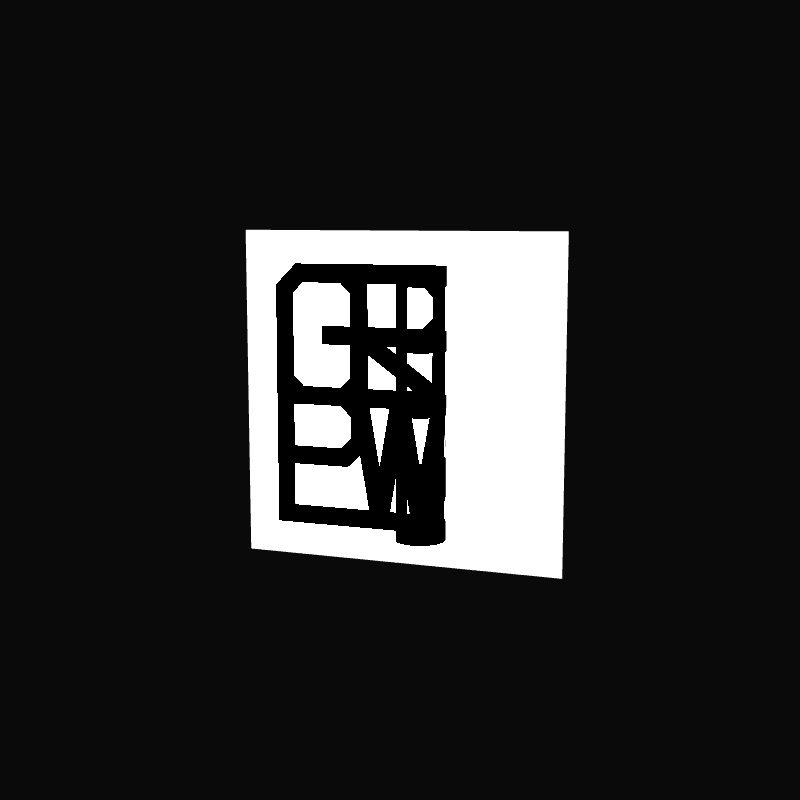
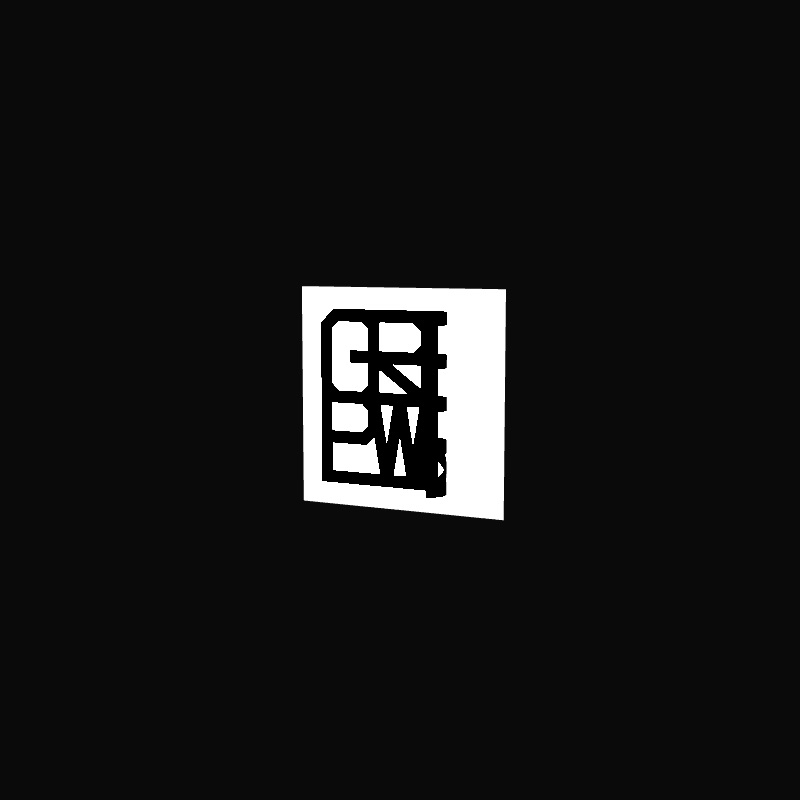
sticker: smaller (0.28 of the width on desktop, 0.55 on a phone); left alone 2 s, the print rolls back flat and the paper turns back

Changed region(s): [[0.2812, 0.2812, 0.7188, 0.7188]]

diff --git a/dist/assets/index.2b77fc91.js b/dist/assets/index.2b77fc91.js
@@ -1,0 +1,28 @@
+import"./modulepreload-polyfill.b7f2da20.js";import{W as Y,C as R,S as z,c as D,G as k,M as L,e as V,f as G,D as g,g as I,h as T,i as W,j as _}from"./vendor.1a2da625.js";const j="M216 60H184.927M216 60V91.0733M216 60H350.122M216 300H184.927M216 300V268.927M216 300V331.073M216 300H300M216 300L258 540M184.927 60H138.073H91.2188L60 91.2188L60.0778 180L60 268.201V300M60 300H91.7993M60 300V420M384 60V93.8779M384 60H350.122M384 60H508.946H540V91.0538V148.655V180M384 300H540M384 300V180M384 300V420M384 300L216 180M384 300H300M384 300L342 540M540 420V435.527V540H384M384 540V420M384 540H363M540 540L384 420M184.927 60L216 91.0733M216 91.0733V180M60 268.201L91.7993 300M91.7993 300H184.927M184.927 300L216 268.927M184.927 300L216 331.073M216 268.927V180M216 331.073L216 388.8L184.8 420H60M384 93.8779L350.122 60M384 93.8779V148.866M540 300V268.946V211.346V180M540 300V331.054V388.623V420M216 180H138.073M216 180H352.866M384 180V148.866M384 180H540M384 180H352.866M60 420V540H216H258M384 420H540M384 420L363 540M352.866 180L384 148.866M300 300L258 540M300 300L342 540M258 540H300H342M342 540H363";function F(){const t=document.createElement("canvas");t.width=t.height=1024;const a=t.getContext("2d"),u=1024*.1,h=(1024-2*u)/516;a.translate(u,u),a.scale(h,h),a.translate(-42,-42),a.lineWidth=36,a.strokeStyle="#000",a.stroke(new Path2D(j));const f=new W(t);return f.anisotropy=4,f}const d=document.getElementById("sticker"),p=new Y({canvas:d,antialias:!0});p.setClearColor(new R(657930),1);const x=new z,i=new D(35,1,.01,100);i.position.z=3;const m=new k;x.add(m);const y=new L(new V(1,1),new G({color:16777215,side:g}));m.add(y);const E=new I({side:g,transparent:!0,uniforms:{map:{value:F()},roll:{value:0},radius:{value:.07}},vertexShader:`
+    uniform float roll;
+    uniform float radius;
+    varying vec2 vUv;
+    void main() {
+      vUv = uv;
+      vec3 p = position;
+      // the unrolled part lies flat; from 'edge' to the right the layer winds up into a spiral
+      float edge = 0.5 - roll * 1.02;
+      if (p.x > edge) {
+        float s = p.x - edge;                                     // length already rolled
+        float r = radius * (1.0 + 0.12 * s / radius / 6.2831853); // grows a little per turn
+        float th = s / r;
+        p.x = edge + r * sin(th);
+        p.z = r * (1.0 - cos(th));
+      }
+      p.z += 0.0015; // printed on top of the paper
+      gl_Position = projectionMatrix * modelViewMatrix * vec4(p, 1.0);
+    }
+  `,fragmentShader:`
+    uniform sampler2D map;
+    varying vec2 vUv;
+    void main() {
+      float a = texture2D(map, vUv).a;
+      if (a < 0.5) discard;
+      gl_FragColor = vec4(0.0, 0.0, 0.0, 1.0);
+    }
+  `});m.add(new L(new V(1,1,256,1),E));function P(){const e=window.innerWidth,t=window.innerHeight;p.setPixelRatio(Math.min(window.devicePixelRatio||1,2)),p.setSize(e,t,!1),i.aspect=e/t;const a=Math.min(e<=768?.55*e:.28*e,.5*t);w=a,i.position.z=t/a/(2*Math.tan(i.fov*Math.PI/360)),i.updateProjectionMatrix()}let v=0,s=0,r=.12,o=-.45,l=0,c=0,w=300;const U=.12,b=-.45,O=2e3;let M=-1e9,n=null;const H=new T,q=(e,t)=>{const a=new _(e/window.innerWidth*2-1,-(t/window.innerHeight)*2+1);return H.setFromCamera(a,i),H.intersectObject(y).length>0},S=e=>Math.min(1,Math.max(0,e));d.addEventListener("pointerdown",e=>{d.setPointerCapture(e.pointerId),n={mode:q(e.clientX,e.clientY)?"roll":"turn",x:e.clientX,y:e.clientY,startX:e.clientX,startRoll:s},l=c=0,M=performance.now()});d.addEventListener("pointermove",e=>{!n||(n.mode==="roll"?s=S(n.startRoll+(n.startX-e.clientX)/w):(c=(e.clientX-n.x)*.004,l=(e.clientY-n.y)*.004,o+=c,r+=l),n.x=e.clientX,n.y=e.clientY,M=performance.now())});const X=()=>{n=null,M=performance.now()};d.addEventListener("pointerup",X);d.addEventListener("pointercancel",X);window.addEventListener("wheel",e=>{e.preventDefault();const t=e.deltaMode===1?e.deltaY*16:e.deltaY;s=S(s+t/(w*2)),M=performance.now()},{passive:!1});function C(e){!n&&e-M>O&&(s+=(0-s)*.04,o+=(b-o)*.04,r+=(U-r)*.04,l=c=0),v+=(s-v)*(n?.mode==="roll"?.5:.15),E.uniforms.roll.value=v,n?.mode!=="turn"&&(o+=c,r+=l,l*=.92,c*=.92),r=Math.max(-.9,Math.min(.9,r)),o=Math.max(-1,Math.min(1,o)),m.rotation.set(r,o,0),p.render(x,i),requestAnimationFrame(C)}window.addEventListener("resize",P);P();requestAnimationFrame(C);

diff --git a/src/sticker/main.ts b/src/sticker/main.ts
@@ -98,7 +98,7 @@ function resize() {
   renderer.setPixelRatio(Math.min(window.devicePixelRatio || 1, 2))
   renderer.setSize(w, h, false)
   camera.aspect = w / h
-  const side = Math.min(w <= 768 ? 0.78 * w : 0.42 * w, 0.75 * h) // paper side, px
+  const side = Math.min(w <= 768 ? 0.55 * w : 0.28 * w, 0.5 * h) // paper side, px
   paperPx = side
   // distance at which a 1-unit plane is `side` px tall on screen
   camera.position.z = h / side / (2 * Math.tan((camera.fov * Math.PI) / 360))
@@ -113,6 +113,11 @@ let rotY = -0.45
 let velX = 0
 let velY = 0
 let paperPx = 300 // paper side on screen, for drag → roll
+
+const REST_X = 0.12
+const REST_Y = -0.45
+const IDLE_MS = 2000 // left alone this long, the print rolls back flat and the paper turns back
+let lastInput = -1e9
 
 type Drag = { mode: 'roll' | 'turn'; x: number; y: number; startX: number; startRoll: number }
 let drag: Drag | null = null
@@ -135,6 +140,7 @@ canvas.addEventListener('pointerdown', (e) => {
     startRoll: rollTarget,
   }
   velX = velY = 0
+  lastInput = performance.now()
 })
 canvas.addEventListener('pointermove', (e) => {
   if (!drag) return
@@ -149,9 +155,11 @@ canvas.addEventListener('pointermove', (e) => {
   }
   drag.x = e.clientX
   drag.y = e.clientY
+  lastInput = performance.now()
 })
 const release = () => {
   drag = null
+  lastInput = performance.now()
 }
 canvas.addEventListener('pointerup', release)
 canvas.addEventListener('pointercancel', release)
@@ -162,11 +170,19 @@ window.addEventListener(
     e.preventDefault()
     const d = e.deltaMode === 1 ? e.deltaY * 16 : e.deltaY
     rollTarget = clamp01(rollTarget + d / (paperPx * 2))
+    lastInput = performance.now()
   },
   { passive: false },
 )
 
-function frame() {
+function frame(t: number) {
+  if (!drag && t - lastInput > IDLE_MS) {
+    // nobody is touching it: roll the print back down and turn the paper back, slowly
+    rollTarget += (0 - rollTarget) * 0.04
+    rotY += (REST_Y - rotY) * 0.04
+    rotX += (REST_X - rotX) * 0.04
+    velX = velY = 0
+  }
   roll += (rollTarget - roll) * (drag?.mode === 'roll' ? 0.5 : 0.15)
   layerMaterial.uniforms.roll.value = roll
 

diff --git a/dist/sticker/index.html b/dist/sticker/index.html
@@ -5,7 +5,7 @@
     <meta charset="UTF-8" />
     <meta name="viewport" content="width=device-width, initial-scale=1.0, user-scalable=no" />
     <title>sticker — grbpwr</title>
-  <script type="module" crossorigin src="/assets/index.2a7c0334.js"></script>
+  <script type="module" crossorigin src="/assets/index.2b77fc91.js"></script>
   <link rel="modulepreload" href="/assets/modulepreload-polyfill.b7f2da20.js">
   <link rel="modulepreload" href="/assets/vendor.1a2da625.js">
   <link rel="stylesheet" href="/assets/index.873b5fcb.css">
